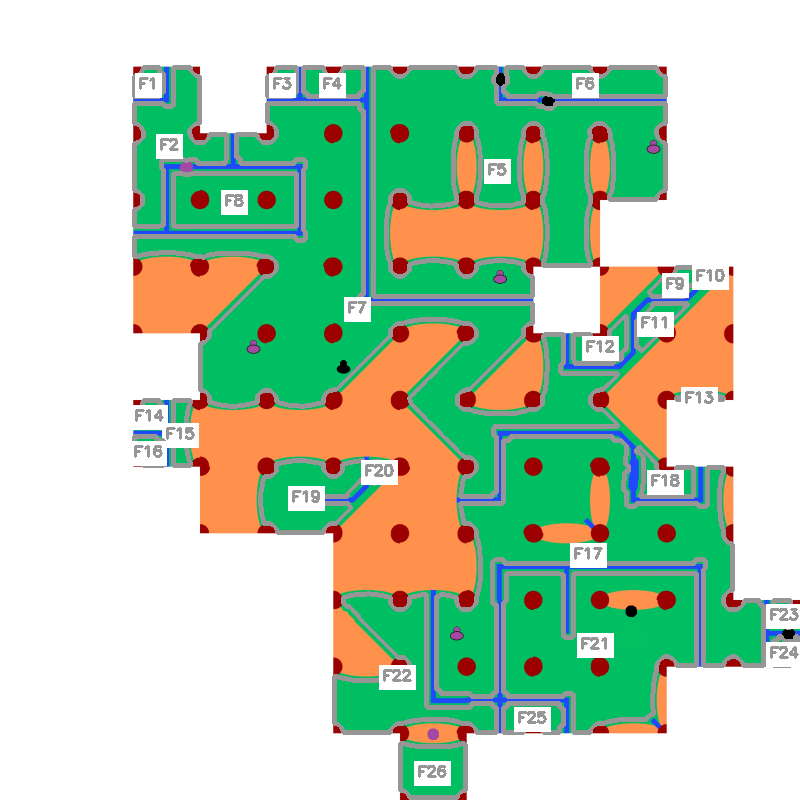
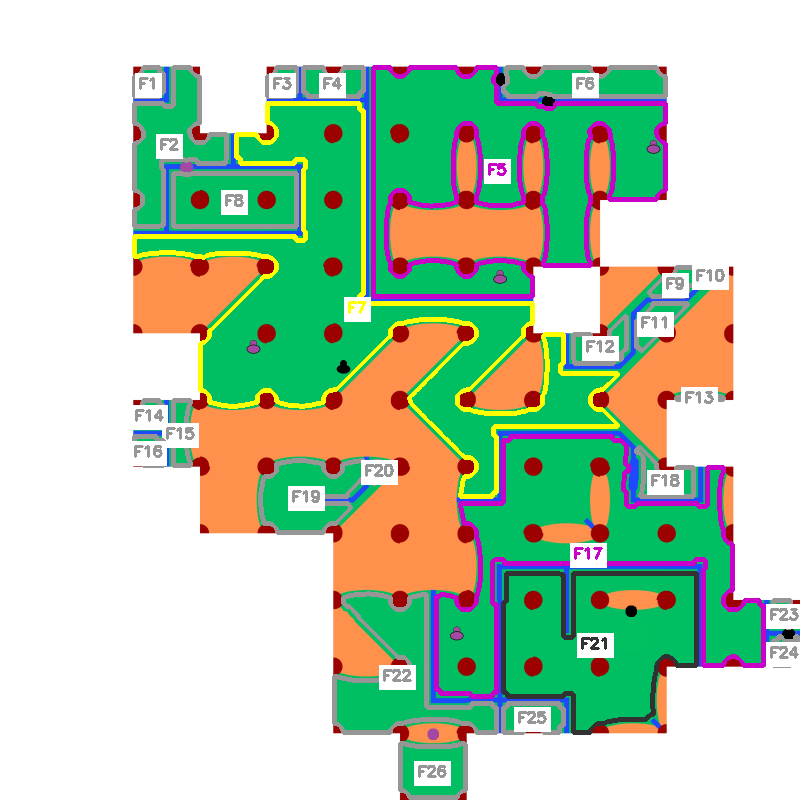
Update del visualizer, correccion de errores en el output, implementacion para mostrar castillos incompletos tmb

diff --git a/abs/field_scorer/carcassone_field_scorer_v5/src/visualizer.py b/abs/field_scorer/carcassone_field_scorer_v5/src/visualizer.py
@@ -1,5 +1,7 @@
-"""
-Visualización de resultados.
+"""Visualización de resultados.
+
+Este módulo genera las imágenes con los contornos de campos y un resumen
+con la puntuación por campo y los totales por jugador.
 """
 import numpy as np
 import cv2
@@ -10,7 +12,7 @@ import random
 
 
 class FieldVisualizer:
-    """Visualiza campos y resultados."""
+    """Visualizador de campos y resumen de puntuaciones."""
 
     def __init__(self, original_image: np.ndarray):
         """
@@ -23,15 +25,7 @@ class FieldVisualizer:
         self.height, self.width = original_image.shape[:2]
 
     def generate_field_colors(self, num_fields: int) -> Dict[int, tuple]:
-        """
-        Genera colores únicos para cada campo.
-
-        Args:
-            num_fields: Número de campos
-
-        Returns:
-            Diccionario con colores únicos por campo
-        """
+        """Genera colores aleatorios deterministas para cada campo."""
         colors = {}
         random.seed(42)
         for i in range(1, num_fields + 1):
@@ -43,16 +37,7 @@ class FieldVisualizer:
         return colors
 
     def find_label_position(self, field_pixels: np.ndarray, original_image: np.ndarray) -> tuple:
-        """
-        Encuentra la mejor posición para la etiqueta del campo.
-
-        Args:
-            field_pixels: Máscara binaria del campo
-            original_image: Imagen original (RGB)
-
-        Returns:
-            (cx, cy): Coordenadas del centroide en área del campo
-        """
+        """Calcula el centroide visual para colocar la etiqueta del campo."""
         y_coords, x_coords = np.where(field_pixels)
         if len(y_coords) == 0:
             return None, None
@@ -71,21 +56,12 @@ class FieldVisualizer:
         return cx, cy
 
     def draw_field_boundaries(self, fields: List[Field], field_results: Dict[int, Dict]) -> np.ndarray:
-        """
-        Dibuja contornos de campos con colores según el dueño.
-
-        Args:
-            fields: Lista de campos
-            field_results: Resultados de puntuación
-
-        Returns:
-            Imagen con contornos dibujados
-        """
+        """Dibuja contornos y etiquetas de campos según su dueño."""
         result_image = self.original.copy()
         owner_colors = {
-            'meeple_1': (200, 0, 200),
-            'meeple_2': (50, 50, 50),
-            'tie': (255, 255, 0),
+            'MEEPLE_1': (200, 0, 200),
+            'MEEPLE_2': (50, 50, 50),
+            'TIE': (255, 255, 0),
             None: (150, 150, 150)
         }
         for field in fields:
@@ -94,7 +70,9 @@ class FieldVisualizer:
                 field_mask, cv2.RETR_EXTERNAL, cv2.CHAIN_APPROX_SIMPLE
             )
             owner = field_results[field.id]['owner']
-            color = owner_colors.get(owner, (150, 150, 150))
+            # normalizar empate
+            owner_key = 'TIE' if owner == 'TIE' else owner
+            color = owner_colors.get(owner_key, (150, 150, 150))
             cv2.drawContours(result_image, contours, -1, color, 3)
             cx, cy = self.find_label_position(field.pixels, self.original)
             if cx is not None and cy is not None:
@@ -117,54 +95,43 @@ class FieldVisualizer:
         return result_image
 
     def create_summary_image(self, field_results: Dict[int, Dict], player_totals: Dict[str, int]) -> np.ndarray:
-        """
-        Crea imagen resumen con información de puntuación.
-
-        Args:
-            field_results: Resultados por campo
-            player_totals: Totales por jugador
-
-        Returns:
-            Imagen resumen
-        """
+        """Genera una imagen con la lista de campos y los totales por jugador."""
         img_height = max(200, 100 + len(field_results) * 30 + 80)
         summary = np.ones((img_height, 600, 3), dtype=np.uint8) * 255
         y_pos = 30
-        cv2.putText(
-            summary, "RESULTADOS DE CAMPOS", (20, y_pos),
-            cv2.FONT_HERSHEY_SIMPLEX, 0.8, (0, 0, 0), 2
-        )
+        cv2.putText(summary, "RESULTADOS DE CAMPOS", (20, y_pos),
+                    cv2.FONT_HERSHEY_SIMPLEX, 0.8, (0, 0, 0), 2)
         y_pos += 40
         if len(field_results) == 0:
-            cv2.putText(
-                summary, "No se detectaron campos", (20, y_pos),
-                cv2.FONT_HERSHEY_SIMPLEX, 0.6, (0, 0, 200), 1
-            )
+            cv2.putText(summary, "No se detectaron campos", (20, y_pos),
+                        cv2.FONT_HERSHEY_SIMPLEX, 0.6, (0, 0, 200), 1)
             y_pos += 30
         else:
             for field_id, data in sorted(field_results.items()):
-                owner_name = PLAYER_NAMES.get(data['owner'], 'Sin dueno')
+                owner_name = PLAYER_NAMES.get(data['owner'], 'Sin dueño')
                 if data['is_tie']:
                     owner_name = 'EMPATE'
-                text = f"Campo {field_id}: {owner_name} | {data['score']} pts | {data['castles']} castillos"
-                cv2.putText(
-                    summary, text, (20, y_pos),
-                    cv2.FONT_HERSHEY_SIMPLEX, 0.5, (0, 0, 0), 1
-                )
+
+                complete = data.get('castles_complete', data.get('castles', 0))
+                incomplete = data.get('castles_incomplete', 0)
+                if incomplete > 0:
+                    castles_text = f"{complete} completos + {incomplete} incompletos"
+                else:
+                    castles_text = f"{complete} completos"
+
+                text = f"Campo {field_id}: {owner_name} | {data['score']} pts | {castles_text}"
+                cv2.putText(summary, text, (20, y_pos),
+                            cv2.FONT_HERSHEY_SIMPLEX, 0.5, (0, 0, 0), 1)
                 y_pos += 25
         y_pos += 15
-        cv2.putText(
-            summary, "TOTALES:", (20, y_pos),
-            cv2.FONT_HERSHEY_SIMPLEX, 0.7, (0, 0, 0), 2
-        )
+        cv2.putText(summary, "TOTALES:", (20, y_pos),
+                    cv2.FONT_HERSHEY_SIMPLEX, 0.7, (0, 0, 0), 2)
         y_pos += 25
-        for player_id in ['meeple_1', 'meeple_2']:
+        for player_id in ['MEEPLE_1', 'MEEPLE_2']:
             player_name = PLAYER_NAMES.get(player_id, player_id)
             total = player_totals.get(player_id, 0)
             text = f"{player_name}: {total} puntos"
-            cv2.putText(
-                summary, text, (20, y_pos),
-                cv2.FONT_HERSHEY_SIMPLEX, 0.5, (0, 0, 0), 1
-            )
+            cv2.putText(summary, text, (20, y_pos),
+                        cv2.FONT_HERSHEY_SIMPLEX, 0.5, (0, 0, 0), 1)
             y_pos += 25
         return summary

diff --git a/abs/field_scorer/carcassone_field_scorer_v5/src/scoring.py b/abs/field_scorer/carcassone_field_scorer_v5/src/scoring.py
@@ -1,7 +1,11 @@
-"""
-Cálculo de puntuación de campos.
-Solo cuenta castillos completos para puntos.
-Castillos incompletos delimitan pero no puntúan.
+"""Módulo de puntuación de campos.
+
+Reglas:
+- Sólo los castillos completos aportan puntos.
+- Los castillos incompletos delimitan pero no puntúan.
+
+El archivo mantiene la lógica existente; aquí solo se limpian
+los comentarios y se usan nombres en formato apropiado.
 """
 from typing import Dict, List, Tuple
 from src.field_detector import Field
@@ -10,16 +14,10 @@ from scipy import ndimage
 
 
 class FieldScorer:
-    """Calcula puntuación de campos."""
+    """Calculador de puntuación de campos."""
 
     def __init__(self, castle_mask: np.ndarray, castle_analyzer=None):
-        """
-        Inicializa el calculador de puntos.
-
-        Args:
-            castle_mask: Máscara de todos los castillos
-            castle_analyzer: Analizador de castillos (opcional)
-        """
+        """Inicializa con la máscara de castillos y un analizador opcional."""
         self.castle_mask = castle_mask
         self.castle_analyzer = castle_analyzer
         self.labeled_castles, self.num_castles = ndimage.label(
@@ -35,15 +33,10 @@ class FieldScorer:
             self.num_complete_castles = self.num_castles
 
     def count_adjacent_castles(self, field: Field, only_complete: bool = True) -> int:
-        """
-        Cuenta castillos adyacentes o dentro de un campo.
+        """Cuenta castillos únicos adyacentes o dentro de un campo.
 
-        Args:
-            field: Campo a analizar
-            only_complete: Si True, solo cuenta castillos completos
-
-        Returns:
-            Número de castillos adyacentes únicos
+        only_complete: si True considera sólo castillos completos.
+        Devuelve el número de castillos únicos encontrados.
         """
         kernel = np.ones((7, 7), dtype=np.uint8)
         expanded_field = ndimage.binary_dilation(field.pixels, structure=kernel, iterations=3)
@@ -64,14 +57,9 @@ class FieldScorer:
         return len(unique_castle_ids)
 
     def determine_owner(self, field: Field) -> Tuple[str, bool]:
-        """
-        Determina el dueño de un campo.
+        """Determina el dueño del campo y si hay empate.
 
-        Args:
-            field: Campo a analizar
-
-        Returns:
-            (owner, is_tie): Tupla con el dueño y si hay empate
+        Retorna una tupla (owner, is_tie). Si no hay meeples retorna (None, False).
         """
         if not field.meeples or all(count == 0 for count in field.meeples.values()):
             return None, False
@@ -82,27 +70,15 @@ class FieldScorer:
         return owners[0], False
 
     def calculate_field_score(self, field: Field) -> int:
-        """
-        Calcula puntos de un campo.
-
-        Args:
-            field: Campo a puntuar
-
-        Returns:
-            Puntos del campo
-        """
+        """Devuelve la puntuación del campo (3 puntos por castillo completo)."""
         num_castles = self.count_adjacent_castles(field, only_complete=True)
         return num_castles * 3
 
     def calculate_all_scores(self, fields: List[Field]) -> Dict[str, Dict]:
-        """
-        Calcula puntuación para todos los campos.
+        """Calcula y devuelve un diccionario con los resultados de cada campo.
 
-        Args:
-            fields: Lista de campos
-
-        Returns:
-            Diccionario con información de puntuación por campo
+        Cada entrada contiene: owner, is_tie, score, meeples, castles (total),
+        castles_complete, castles_incomplete y area.
         """
         results = {}
         for field in fields:
@@ -110,7 +86,7 @@ class FieldScorer:
             complete_castles = self.count_adjacent_castles(field, only_complete=True)
             score = complete_castles * 3
             total_castles = self.count_adjacent_castles(field, only_complete=False)
-            # 'castles' should represent the total adjacent castles (complete+incomplete)
+
             results[field.id] = {
                 'owner': owner,
                 'is_tie': is_tie,
@@ -124,16 +100,12 @@ class FieldScorer:
         return results
 
     def calculate_player_totals(self, field_results: Dict[str, Dict]) -> Dict[str, int]:
-        """
-        Calcula puntos totales por jugador.
+        """Suma los puntos por jugador a partir de los resultados de campos.
 
-        Args:
-            field_results: Resultados por campo
-
-        Returns:
-            Puntos totales por jugador
+        Maneja empates distribuyendo los puntos a los jugadores que comparten
+        la mayoría de meeples en el campo.
         """
-        # Use the same meeple key names as the rest of the code (e.g. 'MEEPLE_1', 'MEEPLE_2')
+        # Inicializar totales con las claves esperadas por el proyecto
         totals = {
             'MEEPLE_1': 0,
             'MEEPLE_2': 0,
